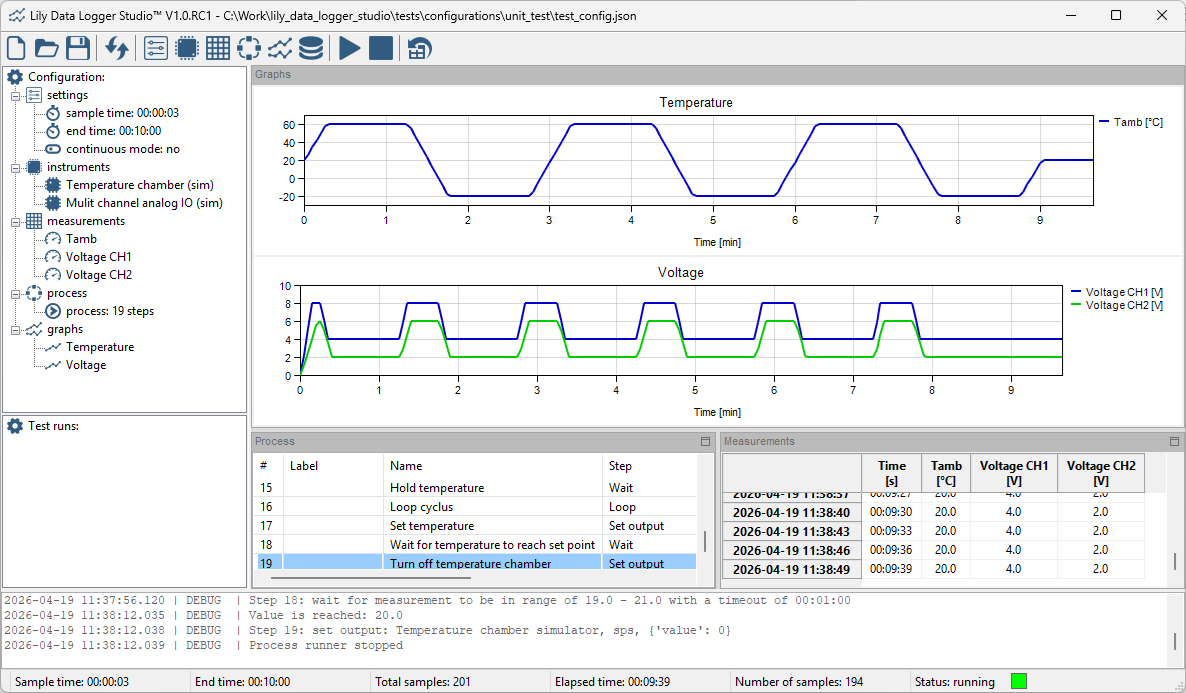
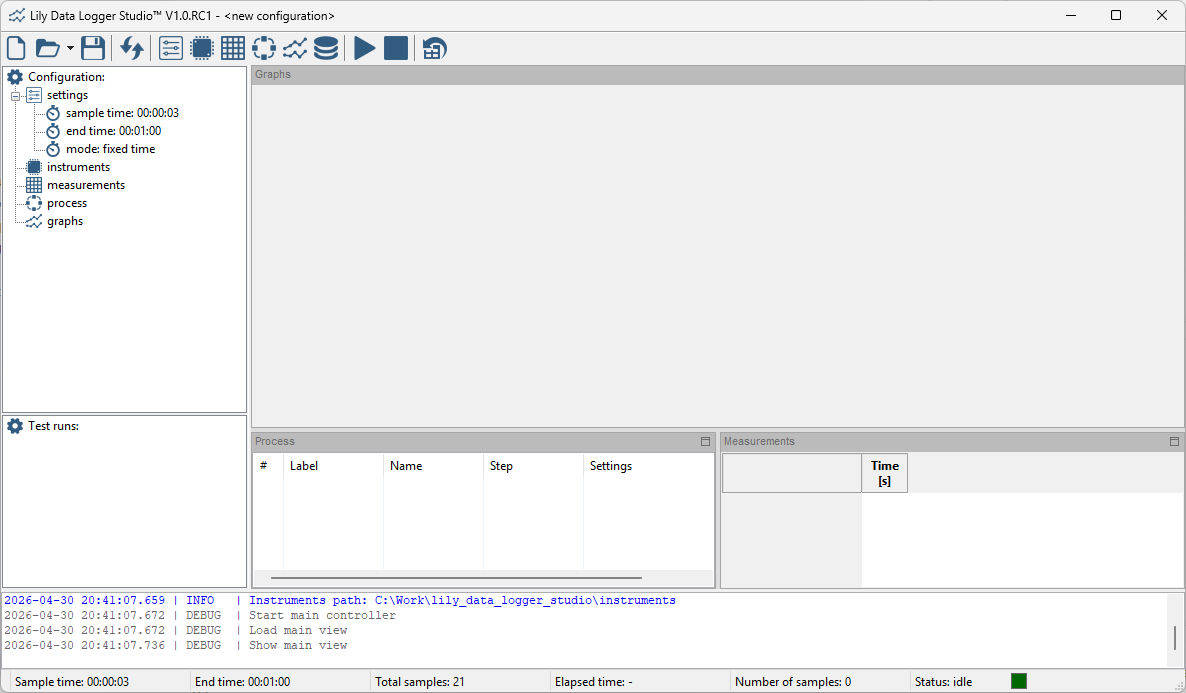
updated manual

diff --git a/manuals/main/configurations.rst b/manuals/main/configurations.rst
@@ -13,7 +13,18 @@ With the following toolbar buttons the configuration can be created, opened and 
 
 .. image:: images/configuration_buttons.png
 
-The first button creates a new configuration. New configurations are created with default settings:
+The first button creates a new configuration. The second button opens an exsiting configuration.
+The third button saves the current configuration. A configuration is saved in a single JSON file.
+There is no limit on the size of the configuration (e.g.: number of instruments or measurements, etc.).
+
+Next to the open configuration button is a small arrow. Clicking this arrow will show a
+dropdown menu with the most recent opened configurations:
+
+.. image:: images/recent_configurations.png
+
+This makes it convenient to quickly open previous saved configuration.
+
+New configurations are created with default settings:
 
 * Sample time: 3 seconds
 * End time: 1 minute
@@ -33,9 +44,11 @@ A settings dialog will be shown:
 In this window you can set the sample time and how the data logger must end.
 The data logger can be stopped in the following ways:
 
-* Fixed end time: the data logger is stopped whether the process or measurements are finished or not.
+* Fixed end time: the data logger is stopped at the given end time,
+  whether the process or measurements are finished or not.
+* Process end: the data logger stops when the process ends, measurements are also stopped.
 * Continuous mode: the data logger must be stopped manually.
-* On process end: the data logger stops when the process ends, measurements are also stopped.
+  If a process has ended, the measurements continue.
 
-In continuous mode, the process can end and stop.
-The measurements will continue until the data logger is stopped.
+The total samples is an indication when fixed end time is used. In the other modes,
+the number of samples depends on when the data logger stops.

diff --git a/manuals/main/main_window.rst b/manuals/main/main_window.rst
@@ -13,7 +13,7 @@ The main window has the following parts:
 * Toolbar: this contains all the buttons for controlling the application.
 * Configuration: a treeview on the left side visualizing the contents of the configuration.
 * Test runs: a tree view on the left side visualizing the available test runs.
-* log window: a window at the bottom contain all log messages.
+* Log window: a window at the bottom contain all log messages.
 * Graphs panel: a panel containing the graphs.
 * Process panel: a panel containing the process control steps.
 * Measurements panel: a panel containing a table with the measurements.